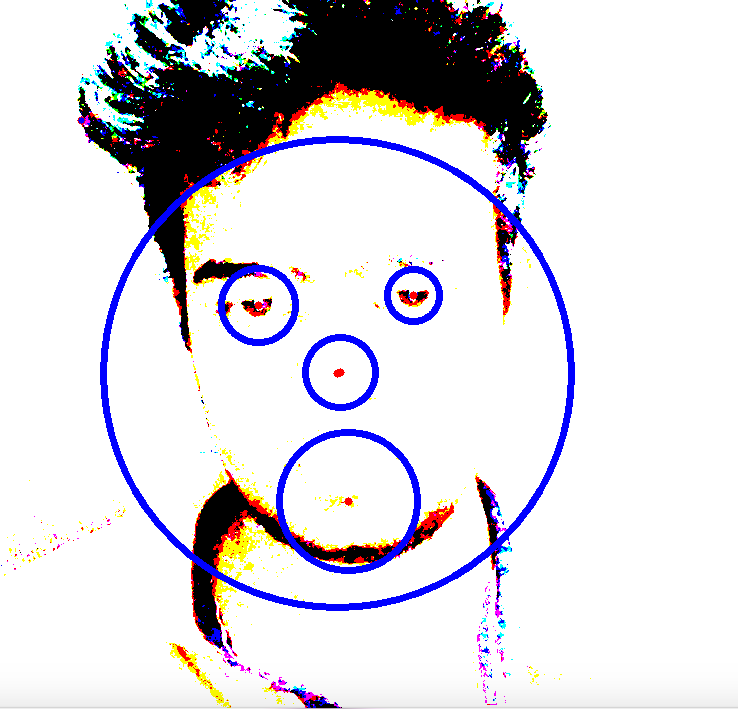
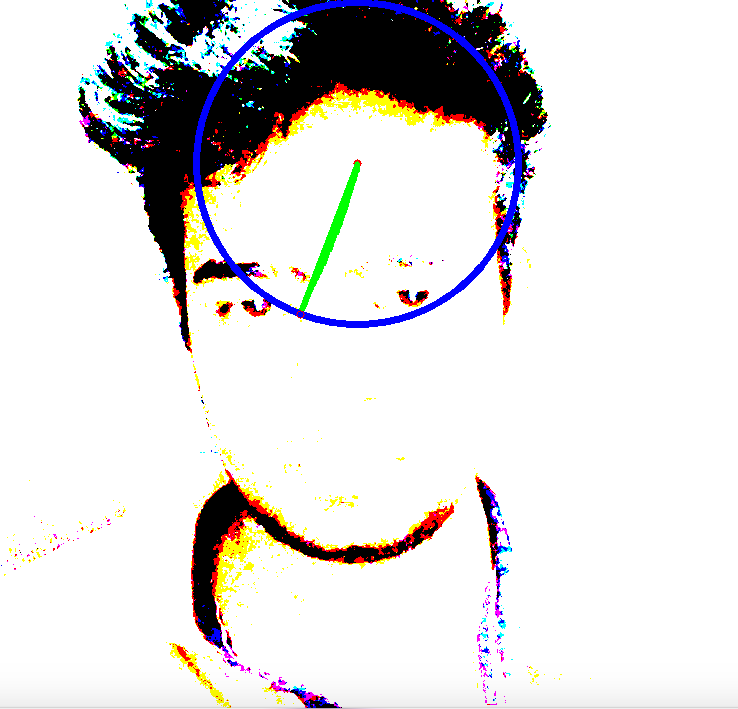
Mouse Drag added

diff --git a/mouse.py b/mouse.py
@@ -9,8 +9,11 @@ def call(action,x,y,flag,user):
     global center,circumeference
 
     if action==cv2.EVENT_LBUTTONDOWN:
-        center = [(x,y)]
+        center = [(x,y),(x,y)]
         cv2.circle(img,center[0],1,(0,0,255),5)
+    elif action==cv2.EVENT_MOUSEMOVE:
+        center[1]=(x,y)
+        cv2.line(img,center[0],center[1],(0,255,0),4)
     elif action==cv2.EVENT_LBUTTONUP:
         circumference = [(x,y)]
         radius = math.sqrt(math.pow(center[0][0]-circumference[0][0],2)+math.pow(center[0][1]-circumference[0][1],2))
